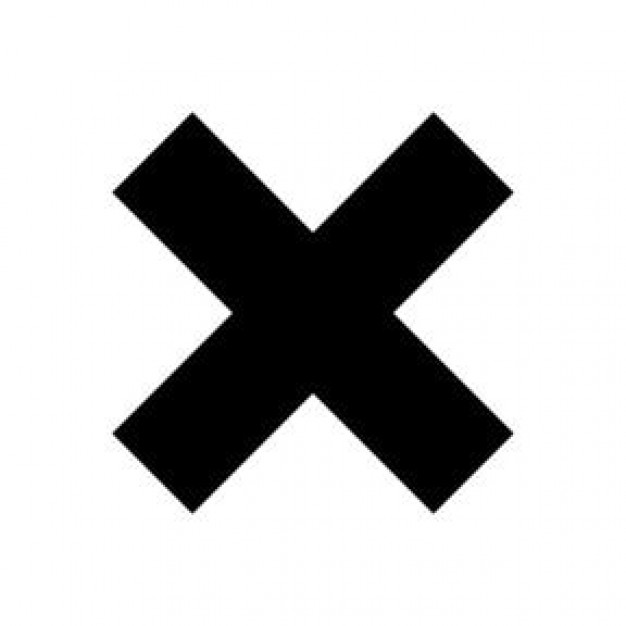
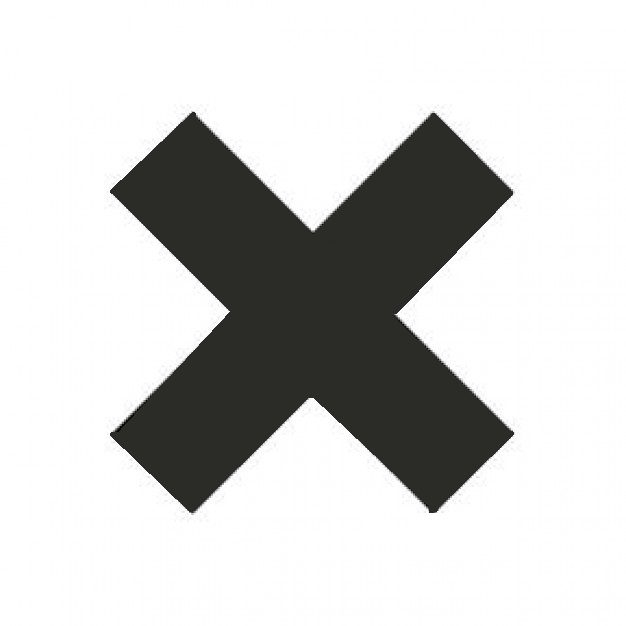
slike tacnice i x-a poboljsane

Changed region(s): [[0.1821, 0.1821, 0.8195, 0.8195]]

diff --git a/src/ba/unsa/etf/rpr/project/controllers/MainWindow.java b/src/ba/unsa/etf/rpr/project/controllers/MainWindow.java
@@ -49,17 +49,18 @@ public class MainWindow {
 
 
     public void initSearch(ActionEvent actionEvent) {
+        //fixme: boje ne valjaju!
         getAllUsersFromServer();
         hboxMainContent.getChildren().remove(btnInitSearch);
-        ImageView x = new ImageView(new Image("/images/x.jpg"));
-        x.setFitHeight(30);
-        x.setFitWidth(30);
+        ImageView x = new ImageView(new Image("/images/x.png"));
+        x.setFitHeight(50);
+        x.setFitWidth(50);
         StackPane usersDisplay = new StackPane();
         usersDisplay.getChildren().add(new Label("Elvir"));
         usersDisplay.getChildren().add(new Label("Sanelaaaaa"));
         ImageView checkmark = new ImageView(new Image("/images/checkmark.png"));
-        checkmark.setFitHeight(30);
-        checkmark.setFitWidth(30);
+        checkmark.setFitHeight(50);
+        checkmark.setFitWidth(50);
         hboxMainContent.getChildren().addAll(x, usersDisplay, checkmark);
         checkmark.setOnMouseClicked(mouseEvent -> usersDisplay.getChildren().remove(usersDisplay.getChildren().size()-1));
     }
